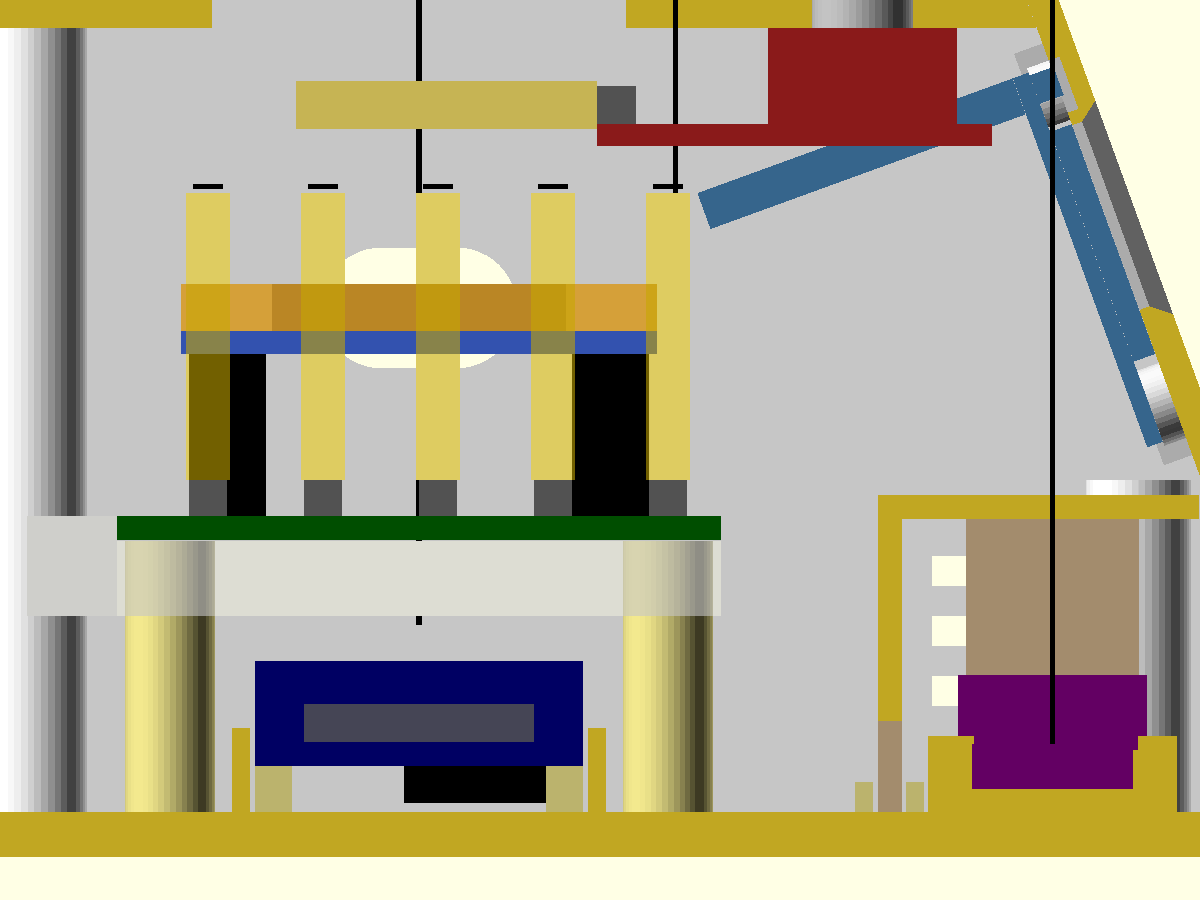
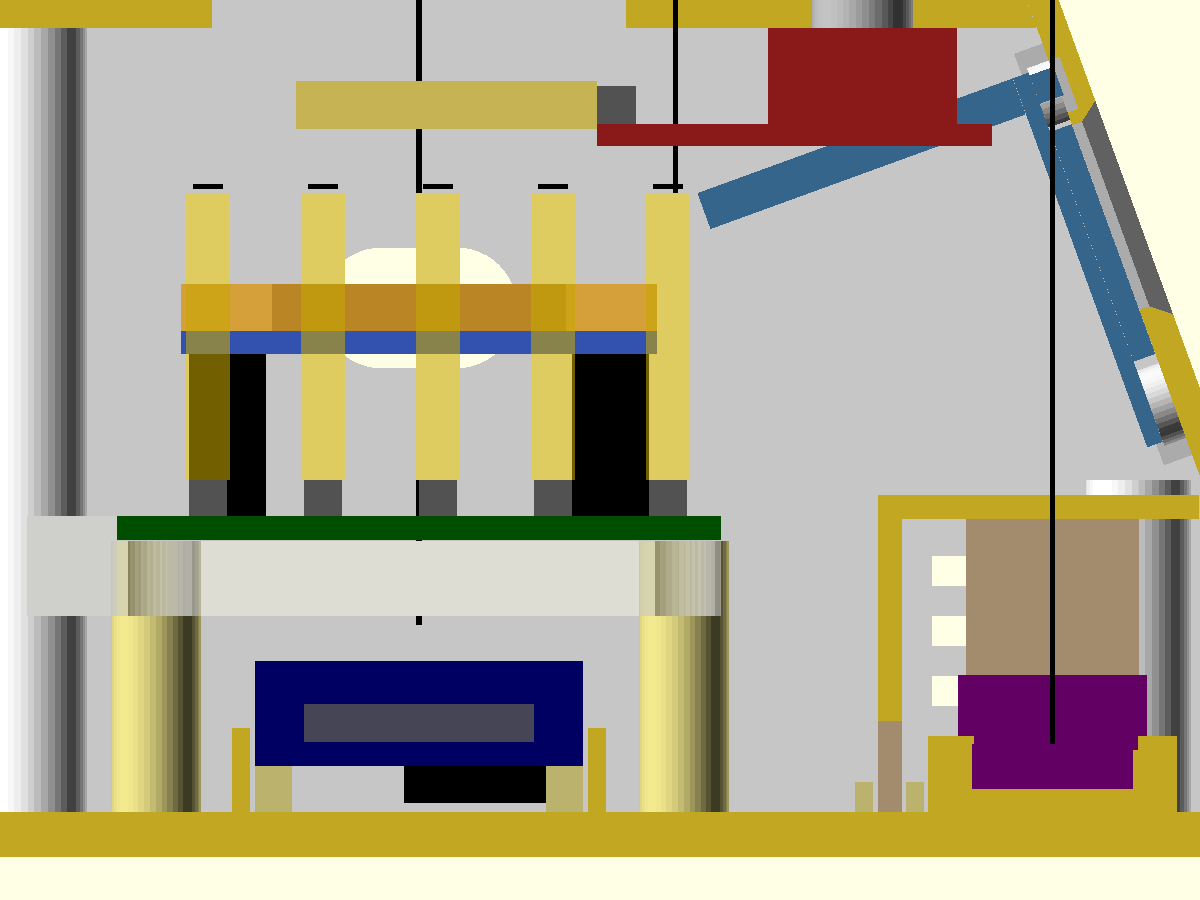
Enclosure: carrier standoffs under the perfboard's measured corner holes
v1 assumed the holes 3.5 in from every edge; measured 2026-10-25 they are
~2.4-2.8 in (1.85, a 2 x 6 goes in). No drilling needed.

Claude-Session: https://claude.ai/code/session_01AMC77idQFHjCegsXhLeCCT

Changed region(s): [[0.4933, 0.5911, 0.6167, 0.9022], [0.0925, 0.5911, 0.185, 0.9022]]

diff --git a/enclosure/assembly.html b/enclosure/assembly.html
@@ -74,7 +74,7 @@ ul.check li { margin-bottom: 6px; }
   <tr><td class="qty">4</td><td>M3 × 10 round head</td><td>silver</td><td><b>Base to body.</b> Turn the case over; one screw in each corner of the base, up into the body. The holes are printed, just screw in.</td></tr>
   <tr><td class="qty">4</td><td>2 × 6</td><td>black</td><td><b>Front plate to body.</b> Two screws down each side of the screen plate, from the front, into the ledges on the side walls. Holes printed.</td></tr>
   <tr><td class="qty">4</td><td>2 × 4</td><td>black</td><td><b>OLED to the front plate.</b> From behind, through the OLED's 4 corner holes into the posts under them. Holes printed.</td></tr>
-  <tr><td class="qty">4</td><td>2 × 6</td><td>black</td><td><b>Carrier board to base.</b> One in each corner of the perfboard, into the 4 tall posts on the base. <b>The perfboard has no holes for these yet:</b> drill one 2.5 mm hole in each corner, 3.5 mm in from both edges, before the ESP32 is plugged in. Easiest: lay the board on the 4 posts, mark through where they are, drill.</td></tr>
+  <tr><td class="qty">4</td><td>2 × 6</td><td>black</td><td><b>Carrier board to base.</b> Through the perfboard's own corner holes into the 4 tall posts on the base, before the ESP32 is plugged in.</td></tr>
   <tr><td class="qty">2</td><td>2 × 5</td><td>black</td><td><b>DS3231 to the base.</b> Through its two holes at the 6-pin end into the posts under them. Holes printed.</td></tr>
   <tr><td class="qty">1</td><td>2.6 × 6</td><td>black</td><td><b>BME280 to the base.</b> Through its one hole into the post under it. Hole printed.</td></tr>
 </table>
@@ -105,7 +105,7 @@ ul.check li { margin-bottom: 6px; }
 <h2>Assembly order</h2>
 <ol class="steps">
   <li><b>DS3231 onto its posts on the base</b>coin cell up, 6-pin end left; a screw through each of the two holes at that end. Dupont on its 6-pin end; the cable goes up past the carrier's left edge.<span class="screw">2 × 2×5 black</span></li>
-  <li><b>Carrier onto the 4 tall posts, before the ESP32 goes in</b>Drill a 2.5 mm hole in each corner of the perfboard, 3.5 mm in from both edges (lay it on the posts and mark first). Screw it down. Then plug the ESP32 in: with it in, the screwdriver can't reach two of the screws.<span class="screw">4 × 2×6 black</span></li>
+  <li><b>Carrier onto the 4 tall posts, before the ESP32 goes in</b>Through its own 4 corner holes. Screw it down, then plug the ESP32 in: with it in, the screwdriver can\'t reach two of the screws.<span class="screw">4 × 2×6 black</span></li>
   <li><b>ESP32 mini into its sockets</b>can up, USB-C pointing out the right side, antenna end left.</li>
   <li><b>Sensors into their pockets, hood on</b>BME280: one screw through its hole into the post under it. SCD41: pin end first, tilted, under the two lips, then let the sensor end down onto the ledges. Both in the low bay at the front; cables out through the notch in the hood's back wall. The hood sits on the base between two ribs.</li>
   <li><b>Knob up through the top from inside</b>pins to the back, board between the ribs; washer + nut from outside, then the cap.</li>

diff --git a/enclosure/holders.html b/enclosure/holders.html
@@ -208,8 +208,9 @@ svg.big { max-width: 520px; margin: 8px 0 16px; }
       <line x1="34" y1="688" x2="65" y2="688" stroke="#ff4d1a" stroke-width="5" marker-start="url(#ah)" marker-end="url(#ah)"/><line x1="82" y1="736" x2="82" y2="705" stroke="#ff4d1a" stroke-width="5" marker-start="url(#ah)" marker-end="url(#ah)"/><text x="112" y="648" fill="#ff4d1a" stroke="#000" stroke-width="2" paint-order="stroke" style="font:700 44px system-ui,sans-serif">S</text><text x="107" y="695.5" fill="#ff4d1a" stroke="#000" stroke-width="2" paint-order="stroke" style="font:700 44px system-ui,sans-serif">E</text>
     </svg>
   </li>
-  <li>
+  <li data-done>
     <label><input type="checkbox"><span><span class="who">You</span><b>P5. Carrier bottom-right (under the ESP32 socket's corner) hole: where</b></span></label>
+    <p class="how"><b>Recorded:</b> S 1.68, E 1.52 (centre 2.61 from the right, 2.45 from the bottom). <b>Modelled:</b> the 4 standoffs now sit under these holes; clash check OK.</p>
     <p class="how">Socket side up as in the photo. <b>S</b>: from the right edge of the board to the edge of the hole. <b>E</b>: from the bottom edge to the edge of the hole. If the socket covers its edge, measure from the back.</p>
     <svg class="big" style="margin-left:28px;max-width:560px" viewBox="0 0 1140 790" role="img" aria-label="Carrier: S and E for the bottom-right (under the ESP32 socket's corner) hole">
       <image href="img/carrier_top.jpg" x="0" y="0" width="1140" height="790"/>

diff --git a/enclosure/README.md b/enclosure/README.md
@@ -102,8 +102,8 @@ Self-tapping screws from the two kits (Homebox: `parts.py show screws`):
 - 4 × 2 × 6, black kit (front plate → rails; pilot 1.6)
 - 4 × 2 × 4, black kit (OLED → its posts, from behind; pilot 1.6, 1.40
   of post + plate: the screw reaches 2.88, 0.6 of plate left in front)
-- 4 × 2 × 6, black kit (carrier → standoffs; pilot 1.6). Lay the perfboard
-  in its outline on the base, mark the standoffs through, drill 2.5.
+- 4 × 2 × 6, black kit (carrier → standoffs; pilot 1.6), through the
+  perfboard's own corner holes (1.85, a 2 × 6 goes in)
 - 2 × 2 × 5, black kit (DS3231 → its posts; pilot 1.6)
 - 1 × 2.6 × 6, black kit (BME280 → its post; pilot 2.1, open through the
   floor: the tip ends about flush with the base's underside)
@@ -138,8 +138,10 @@ hole's near side on all four sides, but the model's 20 x 14 grid on the
 sides" was used (it keeps the grid centred, so the USB hole doesn't move).
 If the carrier sits off on the printed standoffs, recount the holes per
 row and column and remeasure the board.
-On the print (2026-10-23) two of the four holes met their standoffs and
-two didn't: drill those at the post (2.5).
+On the v1 print (2026-10-23) two of the four corner holes met their
+standoffs and two didn't: the model assumed 3.5 in from every edge. The
+holes were measured on 2026-10-25 (`perf_hole_xy`, ~2.4-2.8 in) and the
+reprinted base has the standoffs under them.
 
 ## Printed-part checklist
 
